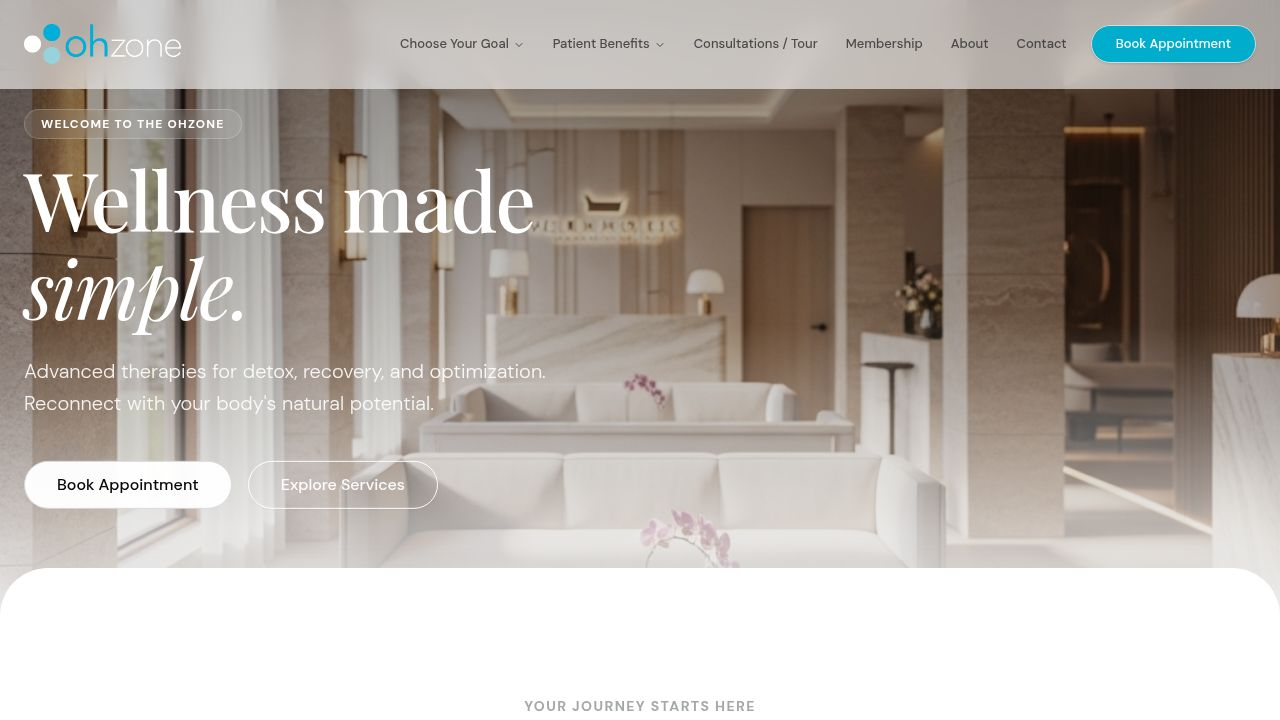
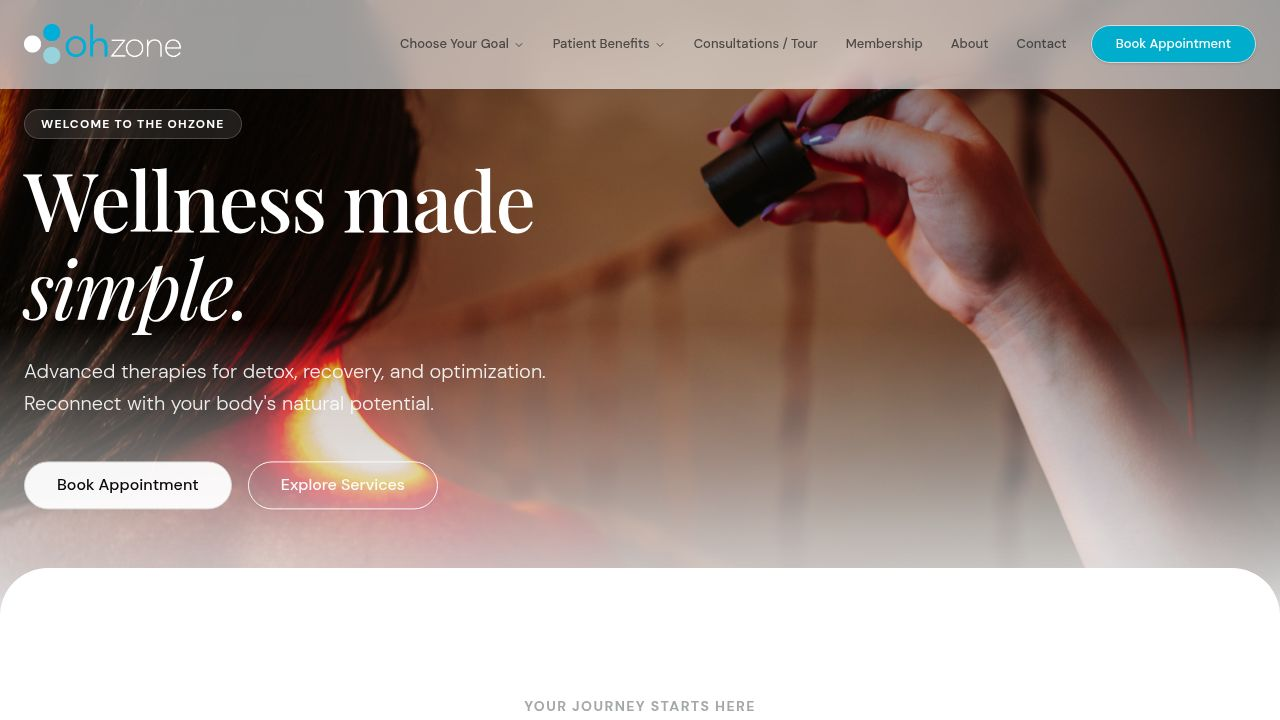
Update website background image and enhance home page layout
Replace the existing hero image with a new background image and adjust the home page component to use it.

Replit-Commit-Author: Agent
Replit-Commit-Session-Id: f0f80296-f7a9-420d-ac30-cb12b71c3e8e
Replit-Commit-Checkpoint-Type: full_checkpoint
Replit-Commit-Event-Id: 15755c1d-82bb-4a01-87b4-b9bec1f60f37
Replit-Commit-Screenshot-Url: https://storage.googleapis.com/screenshot-production-us-central1/a749e91f-1ddf-4dd7-a760-6876aab9b3da/f0f80296-f7a9-420d-ac30-cb12b71c3e8e/EgXQ36s
Replit-Helium-Checkpoint-Created: true

diff --git a/client/src/pages/home.tsx b/client/src/pages/home.tsx
@@ -5,7 +5,7 @@ import { goals, services } from "@/lib/data";
 import { ArrowRight, Sparkles, Activity, ShieldCheck, Heart, Zap } from "lucide-react";
 import { Link } from "wouter";
 import { motion } from "framer-motion";
-import heroImage from "@assets/generated_images/serene_modern_wellness_clinic_lobby_hero.png";
+import heroImage from "@/assets/hero-bg-new.jpg";
 import waterTexture from "@assets/generated_images/abstract_clean_fresh_water_texture.png";
 
 export default function Home() {